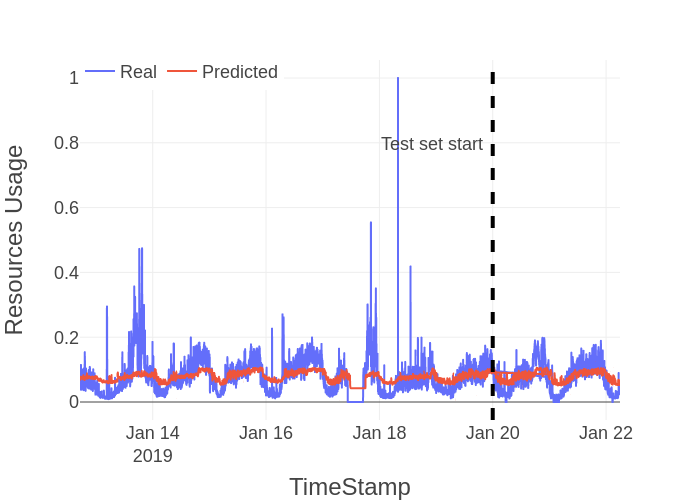
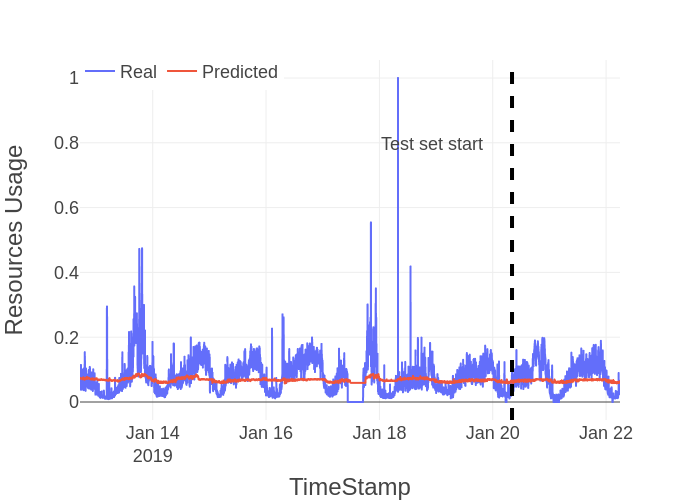
Apparently it is working - missing to understand the Forecasting method

diff --git a/client_fed.py b/client_fed.py
@@ -79,11 +79,21 @@ class SequenceDataset(Dataset):
 
         return x, self.y[i]
 
-def load_data():
+def load_data(client_id):
     file_name = "dataset.pkl"
-
     df = pd.read_pickle(file_name)
-    df = df['LesCorts']
+
+    '''Choose one dataset for each client'''
+    if client_id == 1:
+        df = df['ElBorn']
+    elif client_id == 2:
+        df = df['LesCorts']
+    elif client_id == 3:
+        df = df['PobleSec']
+    else:
+        print("Number of clients > dataset")
+
+
     df.set_index(df.iloc[:, 0].name)
     df.index.names = ['TimeStamp']
 
@@ -110,7 +120,6 @@ def load_data():
     df_min_max_scaled[column] = (df_min_max_scaled[column] - df_min_max_scaled[column].min()) / (
                 df_min_max_scaled[column].max() - df_min_max_scaled[column].min())
     df = df_min_max_scaled
-    #print(df)
     #create_graph(df_min_max_scaled, "DF_Normalized")
     #exit()
 
@@ -123,13 +132,26 @@ def load_data():
     df[target] = df[target_sensor].shift(-forecast_lead)
     df = df.iloc[:-forecast_lead]
 
+    # divide data into train and test
+    train_ind = int(len(df) * 0.8)
+    df_train = df[:train_ind].copy()
+    df_test = df[train_ind:].copy()
+    print(df_train.head())
+    print(df_test.head())
+    train_length = df_train.shape[0]
+    test_length = df_test.shape[0]
+    print('Training size: ', train_length)
+    print('Test size: ', test_length)
+    print('Test ratio: ', test_length / (test_length + train_length))
 
+    '''
     test_start = "2019-01-20"
     df_train = df.loc[:test_start].copy()
     df_test = df.loc[test_start:].copy()
     print("Test set fraction:", len(df_test) / len(df))
+    '''
 
-
+    '''
     target_mean = df_train[target].mean()
     target_stdev = df_train[target].std()
     for c in df_train.columns:
@@ -137,7 +159,7 @@ def load_data():
         stdev = df_train[c].std()
         df_train[c] = (df_train[c] - mean) / stdev
         df_test[c] = (df_test[c] - mean) / stdev
-
+    '''''
 
     #reating the dataset and the data loaders for real
     torch.manual_seed(101)
@@ -244,7 +266,7 @@ parser.add_argument('--ip', type=str, default='127.0.0.1')
 parser.add_argument('--port', type=str, default='3002')
 parser.add_argument('--world_size', type=int)
 parser.add_argument('--rank', type=int)
-
+parser.add_argument('--client_id', type=int, default=1)
 parser.add_argument("--epochs", type=int, default=2)
 parser.add_argument("--lr", type=float, default=0.1)
 parser.add_argument("--batch_size", type=int, default=100)
@@ -258,7 +280,7 @@ else:
 
 model = ShallowRegressionLSTM(num_sensors=11, hidden_units=16)
 
-trainloader, testloader = load_data()
+trainloader, testloader = load_data(args.client_id)
 
 
 print("type: "+str(trainloader))

diff --git a/server_fed.py b/server_fed.py
@@ -63,8 +63,12 @@ def create_loss_graph(y1, y2, model_name):
     plt.savefig('Resultados/' +str(model_name)+ '_loss-graf_federado.png')
     # plt.show()
 
-def plot_real_pred_alone(df_out, model_name):
+def plot_real_pred_alone(df_out, model_name, test_start):
     #Creating graph
+
+    df_completo = df_out.index
+    test_start = df_completo[test_start]
+
 
     df_out = df_out.rename(columns={"Model forecast": "Predicted"})
     plot_template = dict(
@@ -300,7 +304,7 @@ if __name__ == "__main__":
 
     Manager.run()
 
-    trainloader, testloader = load_data()
+    #trainloader, testloader = load_data()
 
 
 
@@ -334,10 +338,18 @@ if __name__ == "__main__":
     target = f"{target_sensor}_lead{forecast_lead}"
     df[target] = df[target_sensor].shift(-forecast_lead)
     df = df.iloc[:-forecast_lead]
-    test_start = "2019-01-20"
-    df_train = df.loc[:test_start].copy()
-    df_test = df.loc[test_start:].copy()
-    print("Test set fraction:", len(df_test) / len(df))
+
+    # divide data into train and test
+    train_ind = int(len(df) * 0.8)
+    df_train = df[:train_ind].copy()
+    df_test = df[train_ind:].copy()
+    print(df_train.head())
+    print(df_test.head())
+    train_length = df_train.shape[0]
+    test_length = df_test.shape[0]
+    print('Server: Training size: ', train_length)
+    print('Server: Test size: ', test_length)
+    print('Server: Test ratio: ', test_length / (test_length + train_length))
 
     target_mean = df_train[target].mean()
     target_stdev = df_train[target].std()
@@ -380,11 +392,10 @@ if __name__ == "__main__":
     for c in df_out.columns:
         df_out[c] = df_out[c] * target_stdev + target_mean
 
-    #print(df_out)
 
     df_out.rename(columns={df_out.columns[0]: "Real"}, inplace=True)  # Rename Pandas Dataframe
     plot_real_pred_detailed(df_out, "LSTM")
-    plot_real_pred_alone(df_out.iloc[:, :-1], "LSTM")
+    plot_real_pred_alone(df_out.iloc[:, :-1], "LSTM", train_ind)
     check_error(df_out[['Real']].to_numpy(), df_out[['Model forecast']].to_numpy(), name_col="LSTM")
     #create_loss_graph(train_loss, test_loss, "LSTM")
 
